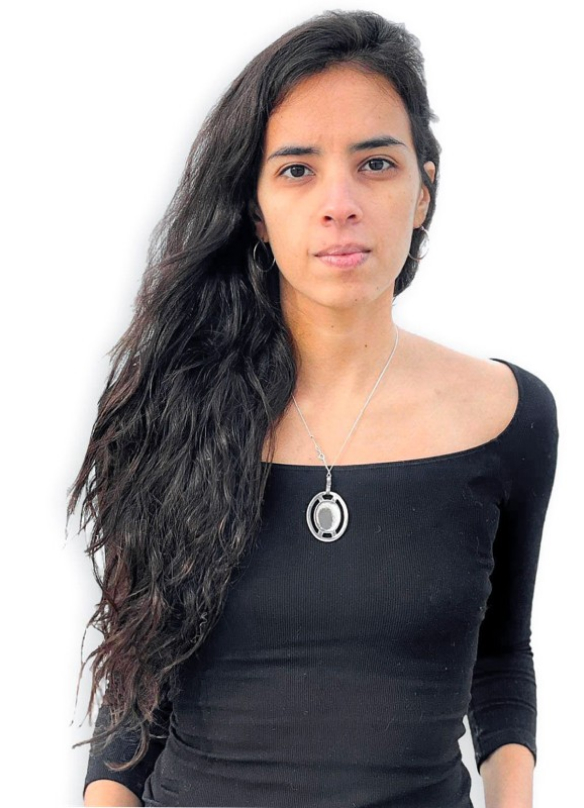
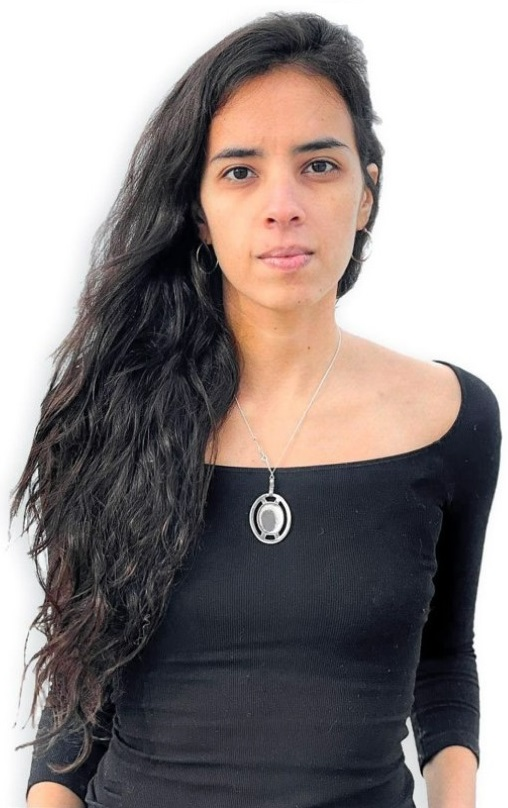
Update: Add a square image to share.

Changed region(s): [[0.0, 0.0, 0.7972, 1.0], [0.7677, 0.4332, 1.0, 1.0], [0.6201, 0.4641, 0.6496, 0.495]]

diff --git a/src/data/daomos.js b/src/data/daomos.js
@@ -144,21 +144,21 @@ const daomos = {
                         type: 'paragraph',
                         content: 'For the UI, I decided to create user interfaces that were:',
                         size: '200',
-                        weight: '600',
+                        weight: '500',
                         style: 'normal'
                     },
                     {
                         type: 'paragraph',
                         content: '1-Intuitive so it can be operated even by laypersons or untrained users.',
                         size: '200',
-                        weight: '600',
+                        weight: '500',
                         style: 'normal'
                     },
                     {
                         type: 'paragraph',
                         content: '2-Enjoyable and fun  (because it is always essential!)',
                         size: '200',
-                        weight: '600',
+                        weight: '500',
                         style: 'normal'
                     },
                     {
@@ -166,14 +166,14 @@ const daomos = {
                         content:
                             '3-Efficient and not much different from what users are used to dealing with or interacting with.',
                         size: '200',
-                        weight: '600',
+                        weight: '500',
                         style: 'normal'
                     },
                     {
                         type: 'paragraph',
                         content: 'The result is:',
                         size: '200',
-                        weight: '600',
+                        weight: '500',
                         style: 'normal'
                     },
                     {
@@ -194,7 +194,7 @@ const daomos = {
                         type: 'paragraph',
                         content: 'Take a look at the prototype.',
                         size: '200',
-                        weight: '600',
+                        weight: '500',
                         style: 'normal'
                     },
                     {
@@ -353,21 +353,21 @@ const daomos = {
                         type: 'paragraph',
                         content: 'Para la interfaz de usuario, decidí crear interfaces que fueran:',
                         size: '200',
-                        weight: '600',
+                        weight: '500',
                         style: 'normal'
                     },
                     {
                         type: 'paragraph',
                         content: '1-Intuitivas para que puedan ser manejadas incluso por usuarios no expertas.',
                         size: '200',
-                        weight: '600',
+                        weight: '500',
                         style: 'normal'
                     },
                     {
                         type: 'paragraph',
                         content: '2- Agradables y divertidas (porque siempre es esencial).',
                         size: '200',
-                        weight: '600',
+                        weight: '500',
                         style: 'normal'
                     },
                     {
@@ -375,14 +375,14 @@ const daomos = {
                         content:
                             '3-Eficaces y no muy diferentes de lo que los usuarios están acostumbrados a tratar o interactuar.',
                         size: '200',
-                        weight: '600',
+                        weight: '500',
                         style: 'normal'
                     },
                     {
                         type: 'paragraph',
                         content: 'El resultado es:',
                         size: '200',
-                        weight: '600',
+                        weight: '500',
                         style: 'normal'
                     },
                     {
@@ -403,7 +403,7 @@ const daomos = {
                         type: 'paragraph',
                         content: 'Mira el prototipo final',
                         size: '200',
-                        weight: '600',
+                        weight: '500',
                         style: 'normal'
                     },
                     {

diff --git a/public/index.html b/public/index.html
@@ -3,11 +3,27 @@
 
 <head>
   <meta charset="utf-8" />
-  <link rel="icon" href="%PUBLIC_URL%/favicon.ico" />
   <meta name="viewport" content="width=device-width, initial-scale=1" />
   <meta name="theme-color" content="#000000" />
-  <meta name="description" content="Web site created using create-react-app" />
-  <link rel="manifest" href="%PUBLIC_URL%/manifest.json" />
+  <link rel="canonical" href="https://gabrielapolancoferreyra.com/">
+  <link rel="alternate" href="https://gabrielapolancoferreyra.com/" hreflang="en-us" />
+  <link rel="alternate" href="https://gabrielapolancoferreyra.com/" hreflang="es-ar" />
+  <meta property="og:url" content="https://gabrielapolancoferreyra.com" />
+  <meta property="url" content="https://gabrielapolancoferreyra.com" />
+  <meta property="og:type" content="website" />
+  <meta property="type" content="website" />
+  <meta property="title" content="Gabi Polanco - Portfolio | UX-UI Designer" />
+  <meta property="og:title" content="Gabi Polanco - Portfolio | UX-UI Designer" />
+  <meta name="apple-mobile-web-app-title" content="Gabi Polanco">
+  <link rel="apple-touch-startup-image" href="%PUBLIC_URL%/images/profile-picture-share.jpg">
+  <meta property="image" content="%PUBLIC_URL%/images/profile-picture.jpg" />
+  <meta property="og:image" content="%PUBLIC_URL%/images/profile-picture-share.jpg" />
+  <meta name="description" content="UX-UI Designer Portfolio." />
+  <meta name="og:description" content="UX-UI Designer Portfolio." />
+  <meta name="keywords"
+    content="uxui design, uxui, ux-ui, web design, user experience, prototype, case study, portfolio, remote" />
+  <link rel="shortcut icon" href="%PUBLIC_URL%/favicon.ico" type="image/x-icon">
+  <link rel="icon" href="%PUBLIC_URL%/favicon.ico" type="image/x-icon">
   <!-- <link rel="stylesheet" href="https://fonts.googleapis.com/icon?family=Material+Icons" /> -->
   <link rel="preconnect" href="https://fonts.googleapis.com">
   <link rel="preconnect" href="https://fonts.gstatic.com" crossorigin>

diff --git a/src/pages/home/Banner.js b/src/pages/home/Banner.js
@@ -6,7 +6,11 @@ import { Grid, makeStyles, Typography } from '@material-ui/core';
 
 const useStyles = makeStyles((theme) => ({
     image: {
-        width: '90%'
+        width: '100%',
+        [theme.breakpoints.up('md')]: {
+            width: '90%',
+            marginLeft: '5%'
+        }
     },
     root: {
         position: 'relative',
@@ -58,8 +62,8 @@ const Banner = ({ classes, ...props }) => {
                     {textProvider?.subtitle4}
                 </Typography>
             </div>
-            <Grid item xs={false} sm={3} />
-            <Grid item xs={12} sm={6}>
+            <Grid item xs={2} sm={3} />
+            <Grid item xs={8} sm={6}>
                 <img className={internalClasses.image} src="images/profile-picture.jpg" alt="Gabi Polanco profile" />
             </Grid>
         </Grid>

diff --git a/src/pages/home/SelectedWorks.js b/src/pages/home/SelectedWorks.js
@@ -11,11 +11,12 @@ const useStyles = makeStyles((theme) => ({
     comingSoon: {
         position: 'absolute',
         zIndex: 3,
-        bottom: '50%',
+        bottom: '-30%',
         right: '-10%',
-        transform: 'translateY(50%)',
         fontSize: '1rem',
-        color: theme.palette.text.primary
+        color: theme.palette.type === 'light' ? theme.palette.text.primary : theme.palette.primary.main
+        // textShadow:
+        //     theme.palette.type === 'dark' && '-1px 1px 0 #000, 1px 1px 0 #000, 1px -1px 0 #000, -1px -1px 0 #000'
     },
     pageTitle: {
         color: '#ffffff'

diff --git a/src/config/languages/spanishContent.js b/src/config/languages/spanishContent.js
@@ -24,7 +24,7 @@ const spanishContent = {
             subtitle3: 'que quiere ser parte ',
             subtitle4: 'Me mueve el deseo de hacer este mundo uno más accesible, justo y democrático.',
             subtitleBold1: '(muy empática)',
-            subtitleBold2: 'de la revolución digital'
+            subtitleBold2: 'de la revolución digital.'
         },
         selectedWorks: {
             title: 'Selección de trabajos',

diff --git a/changelog.md b/changelog.md
@@ -1,3 +1,11 @@
+### v0.6.0
+
+-   Feature: Add meta tags.
+-   Bugfix: Fix bold paragraphs on daomos.
+-   Bugfix: Fix image on banner.
+-   Update: Add a square image to share.
+-   Bugfix: Move 'coming soon' string below project title on selected works.
+
 ### v0.5.1
 
 -   Update: Fix some responsive errors.
